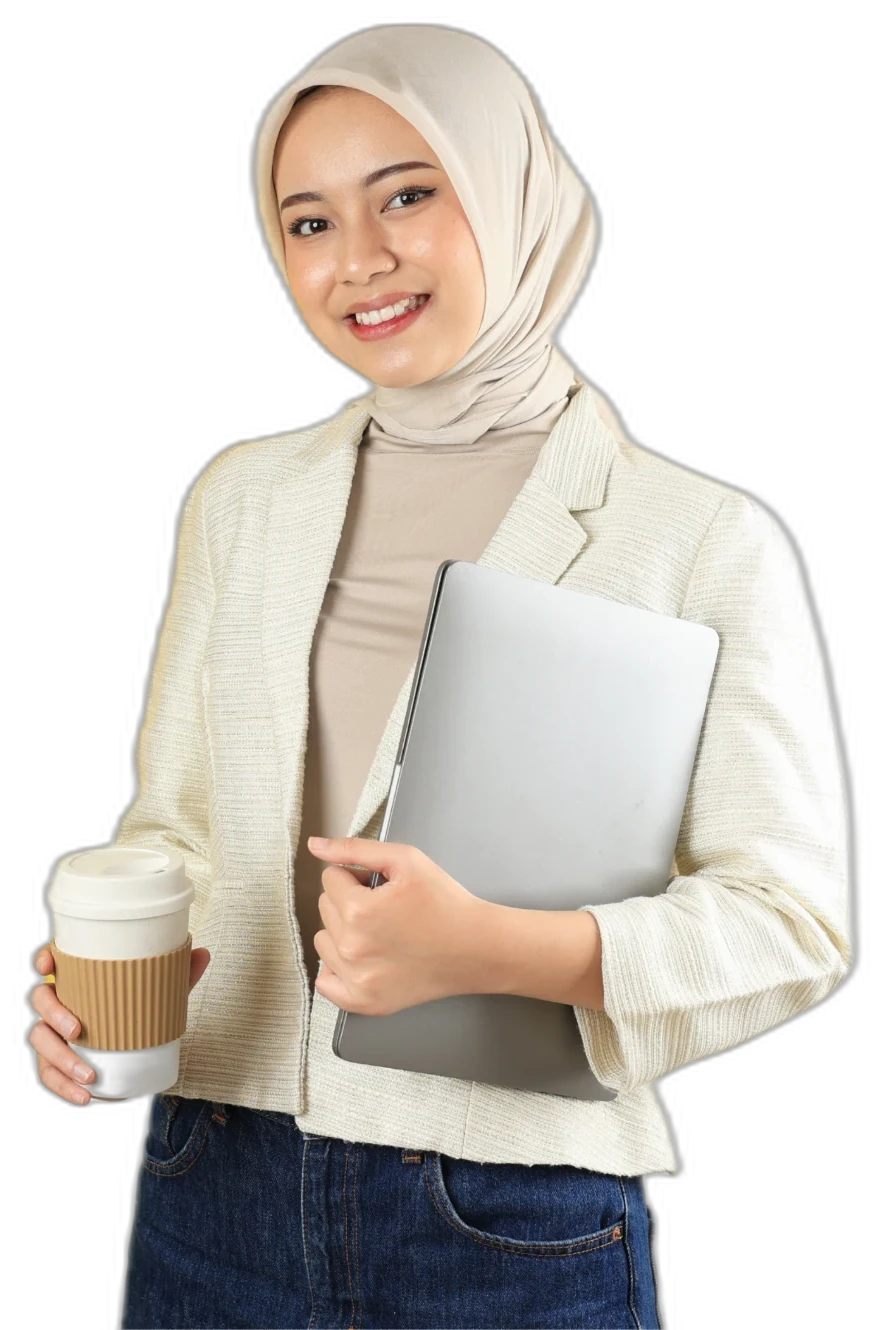
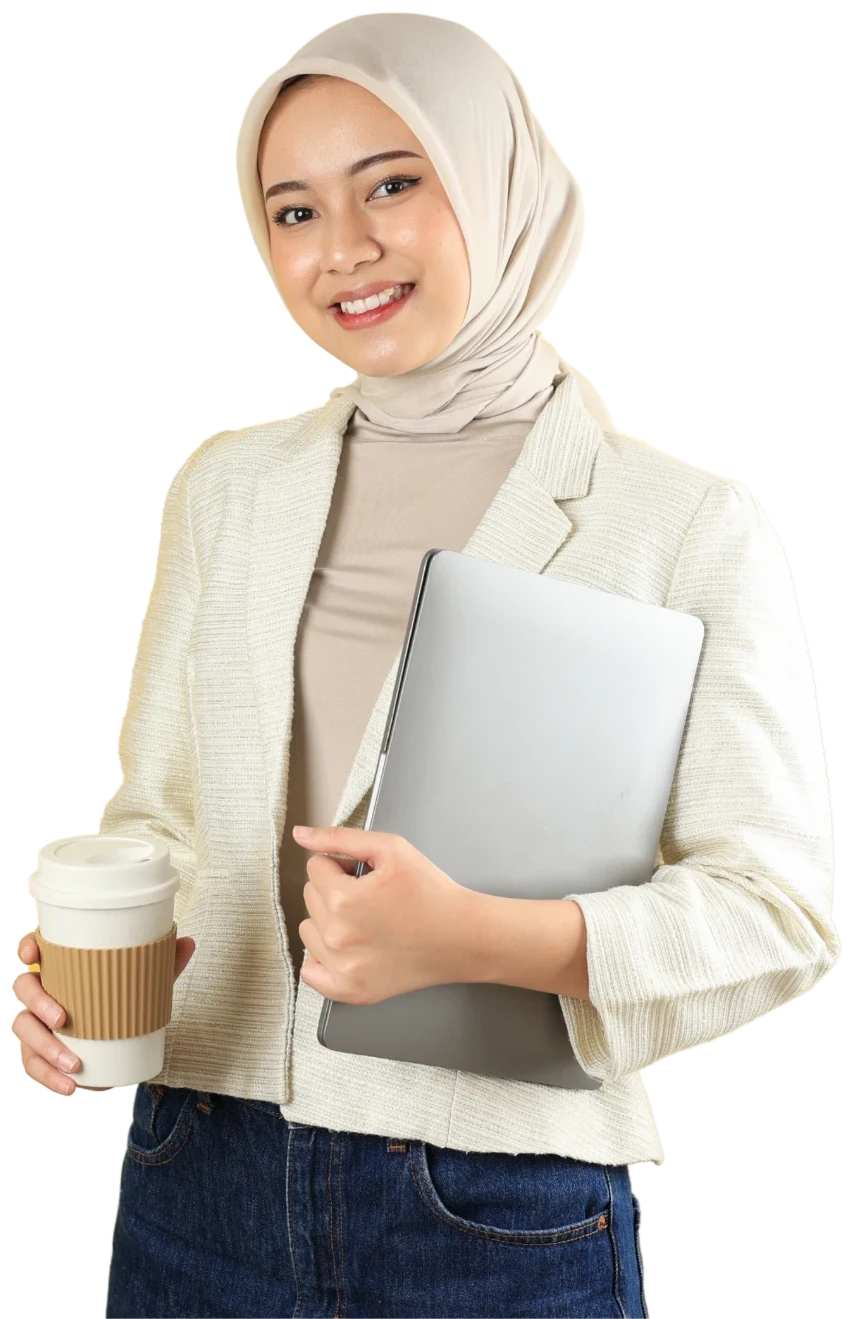
Update landing hero copy and swap in cleaner photo cutout
Replace the hero photo with the user's own manually-cutout version
(cleaner edges, no artifacts). Update headline to "Most Powerful All
In One AI Research Platform" and restore the original rhetorical-
question intro line. Remove the floating "Pengguna Aktif" card and
floating "Daftar Gratis" button overlapping the photo, and remove the
"Portal Riset Terpadu untuk Akademisi Indonesia" badge pill.

diff --git a/landing.html b/landing.html
@@ -107,9 +107,8 @@
   <!-- HERO -->
   <header id="top" style="position:relative;z-index:2;max-width:1200px;margin:0 auto;padding:4.5rem 2rem 5rem;display:grid;grid-template-columns:1.05fr .95fr;gap:3.5rem;align-items:center" class="hero-grid">
     <div>
-      <div class="rv" style="display:inline-flex;align-items:center;gap:.5rem;background:rgba(245,158,11,.12);border:1px solid rgba(245,158,11,.28);color:#fbbf24;padding:.4rem .85rem;border-radius:30px;font-size:.74rem;font-weight:700;text-transform:uppercase;letter-spacing:.06em;margin-bottom:1.4rem"><i class="fa-solid fa-graduation-cap"></i>Portal Riset Terpadu untuk Akademisi Indonesia</div>
-      <p class="rv" style="font-size:1.06rem;color:rgba(255,255,255,.72);font-weight:500;margin-bottom:.9rem;animation-delay:.04s">Daripada bayar mahal buat banyak AI riset satu per satu,</p>
-      <h1 class="rv" style="font-family:'Outfit',sans-serif;text-transform:uppercase;font-size:3.1rem;font-weight:800;line-height:1.1;letter-spacing:-.005em;margin-bottom:1.3rem;animation-delay:.06s;text-wrap:balance">13 AI Riset Tercanggih, <span style="background:linear-gradient(135deg,#ff8e3c,#ff7417 60%,#0787dc);-webkit-background-clip:text;background-clip:text;-webkit-text-fill-color:transparent">Satu Portal</span></h1>
+      <p class="rv" style="font-size:1.06rem;color:rgba(255,255,255,.72);font-weight:500;margin-bottom:.9rem;animation-delay:.04s">Kenapa langganan banyak AI mahal-mahal, kalau fitur-fitur AI Riset tercanggih ada dalam satu portal?</p>
+      <h1 class="rv" style="font-family:'Outfit',sans-serif;text-transform:uppercase;font-size:2.7rem;font-weight:800;line-height:1.12;letter-spacing:-.005em;margin-bottom:1.3rem;animation-delay:.06s;text-wrap:balance">Most Powerful All In One <span style="background:linear-gradient(135deg,#ff8e3c,#ff7417 60%,#0787dc);-webkit-background-clip:text;background-clip:text;-webkit-text-fill-color:transparent">AI Research</span> Platform</h1>
       <p class="rv" style="font-size:1.1rem;color:rgba(255,255,255,.72);line-height:1.6;max-width:540px;margin-bottom:2rem;animation-delay:.12s">JurnalHub menyatukan 13 tools yang paling dibutuhkan peneliti — cari jurnal, susun outline &amp; tinjauan pustaka, cek naskah ala reviewer jurnal, sampai humanisasi tulisan agar lolos Turnitin &amp; GPTZero — dalam satu portal, satu harga.</p>
       <div class="rv" style="display:flex;flex-wrap:wrap;gap:1rem;margin-bottom:1.8rem;animation-delay:.18s">
         <a href="auth.html" style="display:inline-flex;align-items:center;gap:.6rem;background:linear-gradient(135deg,#ff7417,#ff8e3c);color:#fff;font-weight:700;font-size:1.02rem;padding:.95rem 1.6rem;border-radius:12px;box-shadow:0 10px 26px rgba(255,116,23,.34)" onmouseover="this.style.transform='translateY(-3px)'" onmouseout="this.style.transform='none'"><i class="fa-solid fa-bolt"></i>Daftar Gratis Sekarang</a>
@@ -124,14 +123,9 @@
 
     <!-- Hero visual: photo + brand-accent circle -->
     <div class="rv" style="position:relative;animation-delay:.2s;display:flex;justify-content:center">
-      <div style="position:relative;width:100%;max-width:420px;padding-bottom:2.5rem">
+      <div style="position:relative;width:100%;max-width:420px">
         <div style="position:absolute;top:2%;right:0;width:84%;aspect-ratio:1/1;border-radius:50%;background:radial-gradient(circle at 35% 30%,#ffd766,#fbbf24 55%,#f59e0b 100%);box-shadow:0 30px 70px rgba(0,0,0,.35);animation:floatY 9s ease-in-out infinite"></div>
         <img src="assets/landing-hero-person.webp" alt="Peneliti menggunakan JurnalHub" style="position:relative;z-index:2;display:block;width:100%;height:auto;filter:drop-shadow(0 22px 36px rgba(0,0,0,.45))">
-        <div style="position:absolute;bottom:14%;left:-6%;z-index:3;background:rgba(8,20,42,.92);border:1px solid rgba(255,255,255,.1);border-radius:14px;padding:.7rem .9rem;box-shadow:0 16px 40px rgba(0,0,0,.4);animation:floatY 8s ease-in-out infinite;animation-delay:-2s" class="hide-sm">
-          <div style="font-size:.64rem;color:rgba(255,255,255,.5);text-transform:uppercase;letter-spacing:.06em;font-weight:700;margin-bottom:.2rem">Pengguna Aktif</div>
-          <div style="font-family:'Outfit';font-size:1.5rem;font-weight:800;color:#fff">1.200+</div>
-        </div>
-        <a href="auth.html" style="position:absolute;bottom:0;right:4%;z-index:3;display:inline-flex;align-items:center;gap:.5rem;background:linear-gradient(135deg,#ff7417,#ff8e3c);color:#fff;font-weight:800;font-size:.9rem;padding:.8rem 1.3rem;border-radius:12px;box-shadow:0 14px 34px rgba(255,116,23,.4)" onmouseover="this.style.transform='translateY(-3px)'" onmouseout="this.style.transform='none'"><i class="fa-solid fa-bolt"></i>Daftar Gratis</a>
       </div>
     </div>
   </header>
